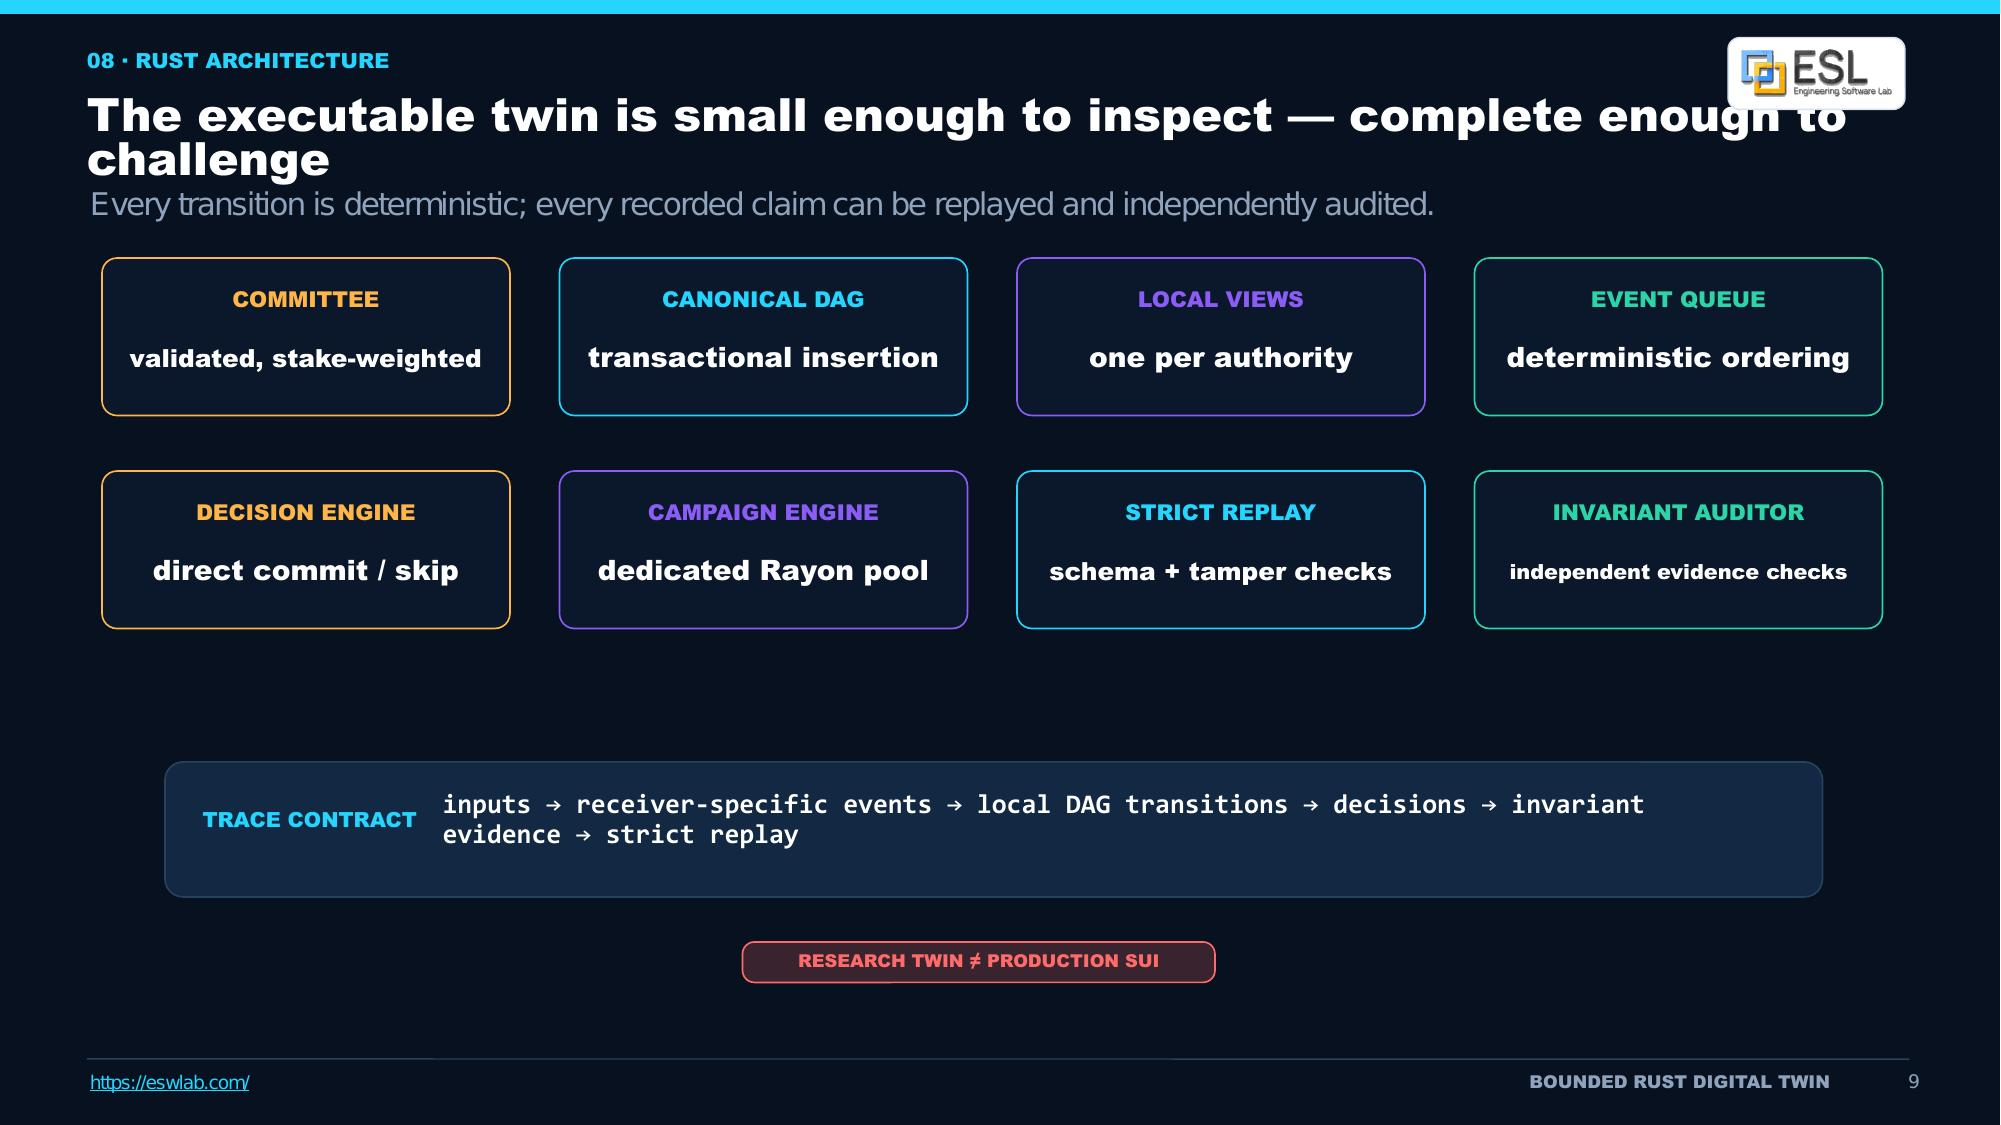
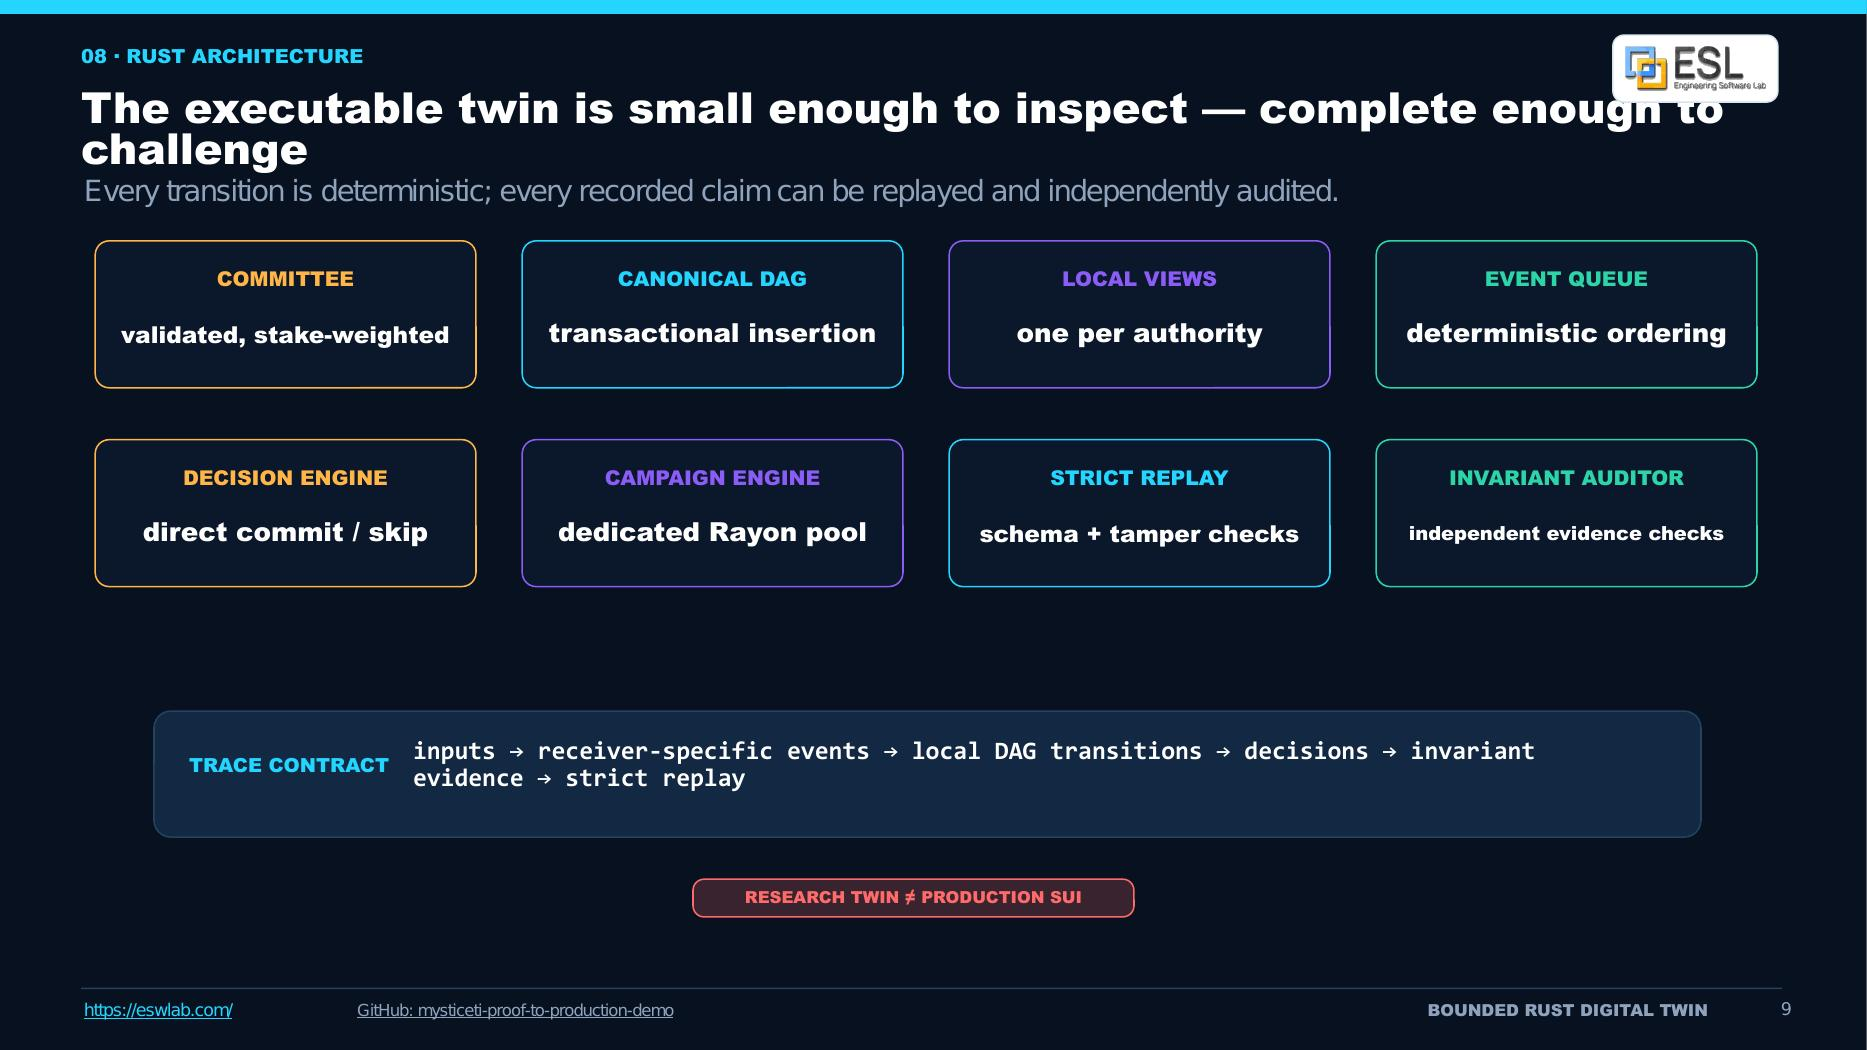
Add public Mysticeti repository to presentation
Amp-Thread-ID: https://ampcode.com/threads/T-019fa944-c591-7218-8247-1a19b7ce44c8

diff --git a/mysticeti-consensus-digital-twin/index.html b/mysticeti-consensus-digital-twin/index.html
@@ -299,6 +299,7 @@
   <div class="topbar" aria-label="Presentation links and controls">
     <button class="chip" id="home" type="button" aria-label="Go to slide 1" title="Home (Home key)"><strong>⌂</strong> Home</button>
     <a class="chip brand" href="https://eswlab.com/" target="_blank" rel="noopener"><strong>ESL</strong> Engineering Software Lab</a>
+    <a class="icon-button" href="https://github.com/zuwasi/mysticeti-proof-to-production-demo" target="_blank" rel="noopener" aria-label="Mysticeti proof-to-production demo on GitHub" title="Open the public GitHub repository">GH</a>
     <a class="icon-button" href="https://il.linkedin.com/in/liezrowice" target="_blank" rel="noopener" aria-label="Daniel Liezrowice on LinkedIn" title="Daniel Liezrowice on LinkedIn">in</a>
     <button class="icon-button" id="fullscreen" type="button" aria-label="Toggle fullscreen" title="Fullscreen (F)">⛶</button>
   </div>
@@ -330,6 +331,7 @@
         <img src="slides/slide-22.jpg" alt="Daniel Liezrowice with a goat, ESL and LinkedIn contact details" loading="lazy">
         <nav class="contact-actions" aria-label="Slide 22 contact links">
           <a href="https://eswlab.com/" target="_blank" rel="noopener">Visit ESL ↗</a>
+          <a href="https://github.com/zuwasi/mysticeti-proof-to-production-demo" target="_blank" rel="noopener">Run it on GitHub ↗</a>
           <a href="https://il.linkedin.com/in/liezrowice" target="_blank" rel="noopener">Daniel on LinkedIn ↗</a>
         </nav>
       </section>
